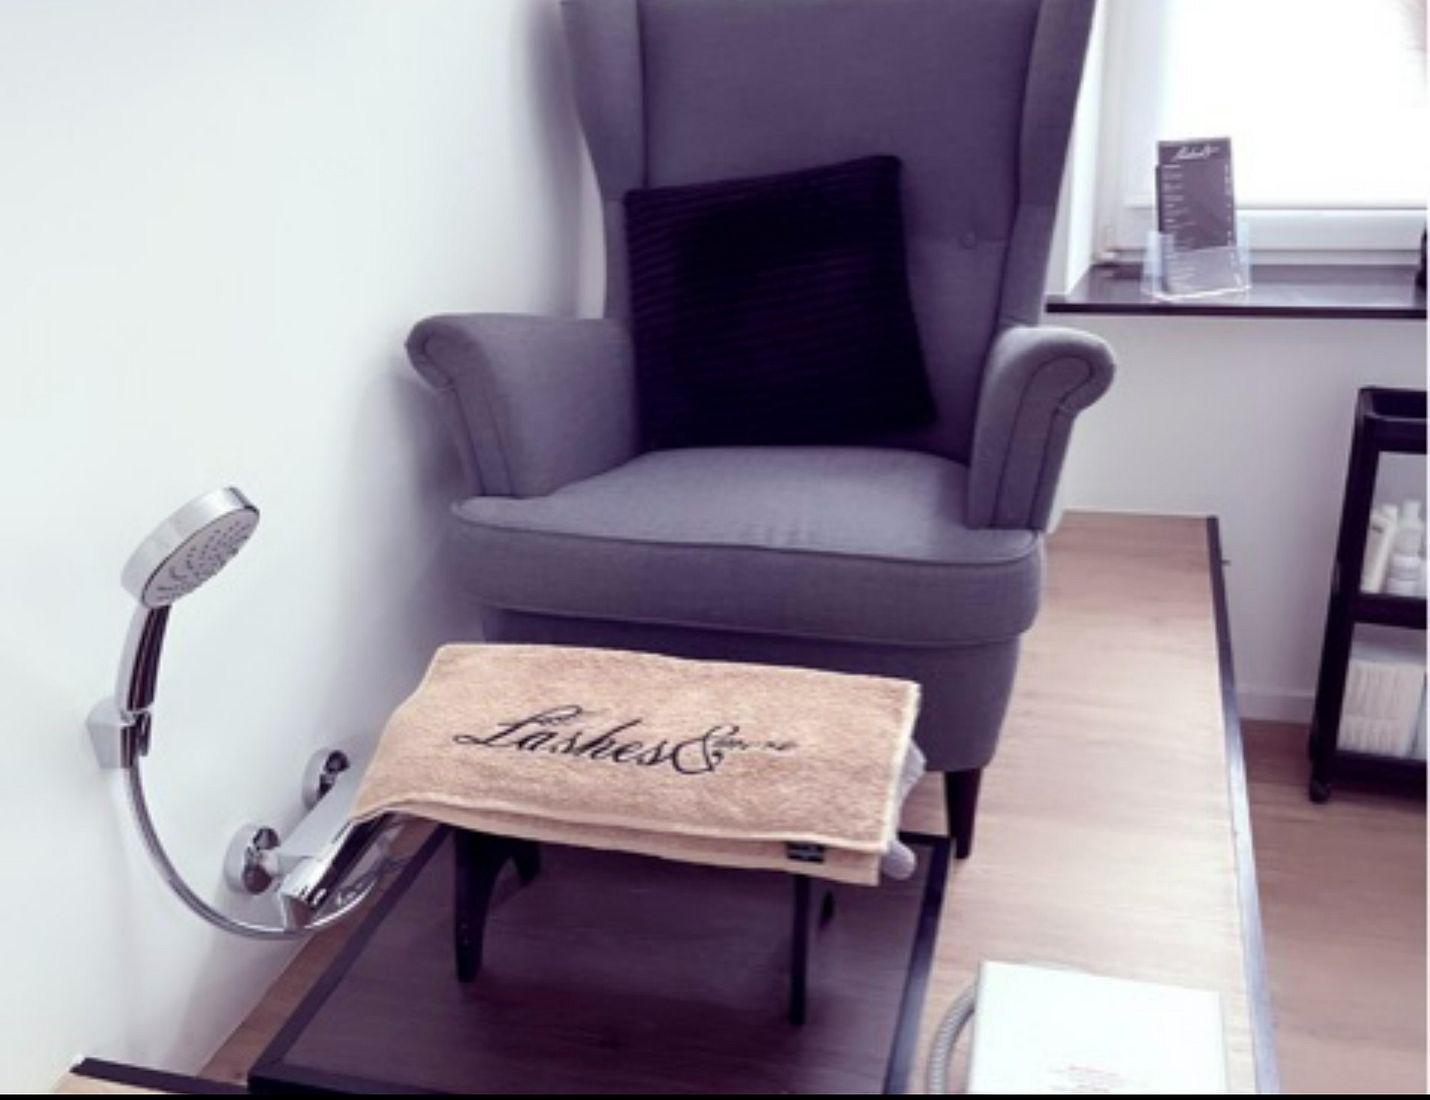
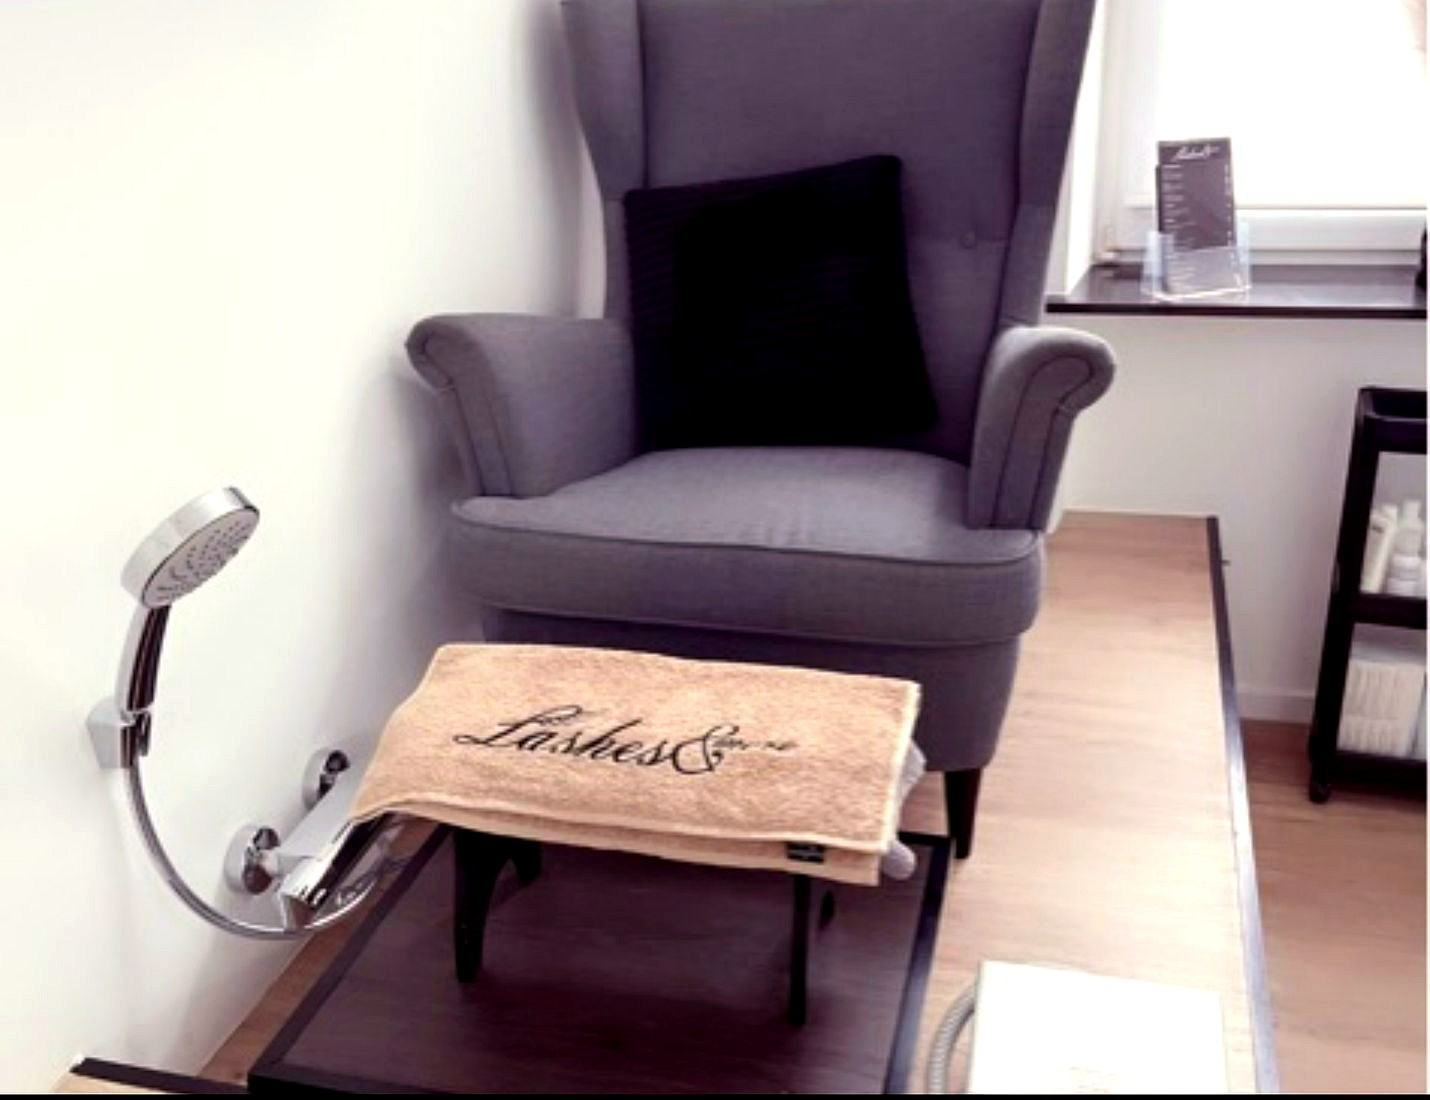
Fotos vereinheitlichen und Galerie/Über-uns-Layout überarbeiten
Weißabgleich und Farbgrading auf alle Fotos angewendet (u.a. Blaustich bei
Pediküre-/Pigmentierungsbild korrigiert) für einen einheitlichen, warmen Look.
Galerie zu einem kuratierten Bento-Grid mit Standort-Tags und Bildunterschriften
umgebaut statt eines rohen Masonry-Rasters. Über-uns-Bereich als editoriale
Bildcollage mit überlappendem Akzentbild statt zweier gleichförmiger Boxen.

diff --git a/src/lib/data.ts b/src/lib/data.ts
@@ -136,21 +136,37 @@ export const academyNote =
 export type GalleryImage = {
   src: string;
   alt: string;
+  location: "Studio 1" | "Studio 2";
+  featured?: boolean;
 };
 
 export const galleryImages: GalleryImage[] = [
-  { src: "/images/gallery/lounge-empfang.jpg", alt: "Wartebereich und Empfang im Studio 1, Anhalter Straße" },
-  { src: "/images/gallery/behandlung-gesicht.jpg", alt: "Behandlungsliege für Gesichtsbehandlungen, Studio 1" },
-  { src: "/images/gallery/studio-1-flur.jpg", alt: "Eleganter Flur mit Glastüren, Studio 1 Anhalter Straße 8" },
-  { src: "/images/gallery/pedikuere.jpg", alt: "Pediküre-Bereich, Anhalter Straße 8" },
-  { src: "/images/gallery/doppelbehandlung.jpg", alt: "Behandlungsraum für Doppelbehandlungen, Studio 1" },
-  { src: "/images/gallery/theke.jpg", alt: "Empfangstheke, Studio 1 Anhalter Straße 8" },
-  { src: "/images/gallery/liege-branded.jpg", alt: "Behandlungsliege mit Lashes&more Logo-Handtuch" },
-  { src: "/images/gallery/pigmentierung.jpg", alt: "Pigmentierungsbereich für Permanent Make-up, Studio 1" },
-  { src: "/images/gallery/flur.jpg", alt: "Eingangsbereich vor dem Studio, Anhalter Straße 8" },
-  { src: "/images/gallery/studio-2-empfang.jpg", alt: "Empfangstheke aus Massivholz, Studio 2 Gewerbeschulstraße 95" },
-  { src: "/images/gallery/studio-2-schaufenster.jpg", alt: "Schaufenster mit Leistungsübersicht, Studio 2 Gewerbeschulstraße 95" },
-  { src: "/images/gallery/studio-2-behandlung.jpg", alt: "Behandlungsbereich, Studio 2 Gewerbeschulstraße 95" },
+  {
+    src: "/images/gallery/lounge-empfang.jpg",
+    alt: "Wartebereich und Empfang im Studio 1, Anhalter Straße",
+    location: "Studio 1",
+    featured: true,
+  },
+  { src: "/images/gallery/behandlung-gesicht.jpg", alt: "Behandlungsliege für Gesichtsbehandlungen, Studio 1", location: "Studio 1" },
+  { src: "/images/gallery/studio-1-flur.jpg", alt: "Eleganter Flur mit Glastüren, Studio 1 Anhalter Straße 8", location: "Studio 1" },
+  { src: "/images/gallery/pedikuere.jpg", alt: "Pediküre-Bereich, Anhalter Straße 8", location: "Studio 1" },
+  { src: "/images/gallery/doppelbehandlung.jpg", alt: "Behandlungsraum für Doppelbehandlungen, Studio 1", location: "Studio 1" },
+  { src: "/images/gallery/theke.jpg", alt: "Empfangstheke, Studio 1 Anhalter Straße 8", location: "Studio 1" },
+  {
+    src: "/images/gallery/liege-branded.jpg",
+    alt: "Behandlungsliege mit Lashes&more Logo-Handtuch",
+    location: "Studio 1",
+  },
+  { src: "/images/gallery/pigmentierung.jpg", alt: "Pigmentierungsbereich für Permanent Make-up, Studio 1", location: "Studio 1" },
+  { src: "/images/gallery/flur.jpg", alt: "Eingangsbereich vor dem Studio, Anhalter Straße 8", location: "Studio 1" },
+  { src: "/images/gallery/studio-2-empfang.jpg", alt: "Empfangstheke aus Massivholz, Studio 2 Gewerbeschulstraße 95", location: "Studio 2" },
+  {
+    src: "/images/gallery/studio-2-schaufenster.jpg",
+    alt: "Schaufenster mit Leistungsübersicht, Studio 2 Gewerbeschulstraße 95",
+    location: "Studio 2",
+    featured: true,
+  },
+  { src: "/images/gallery/studio-2-behandlung.jpg", alt: "Behandlungsbereich, Studio 2 Gewerbeschulstraße 95", location: "Studio 2" },
 ];
 
 export const ratingSummary = {

diff --git a/src/components/Gallery.tsx b/src/components/Gallery.tsx
@@ -45,23 +45,30 @@ export default function Gallery() {
         </p>
       </div>
 
-      <div className="mt-14 columns-2 gap-4 sm:columns-3 lg:columns-4">
+      <div className="mt-14 grid grid-cols-2 gap-4 auto-rows-[160px] sm:grid-cols-3 sm:gap-5 sm:auto-rows-[200px] lg:grid-cols-4 lg:auto-rows-[220px]">
         {galleryImages.map((image, index) => (
           <button
             key={image.src}
             type="button"
             onClick={() => setActiveIndex(index)}
-            className="group relative mb-4 block w-full overflow-hidden rounded-xl focus:outline-none focus-visible:ring-2 focus-visible:ring-gold"
+            className={`group relative overflow-hidden rounded-2xl shadow-sm ring-1 ring-ink/5 transition-all duration-300 hover:shadow-xl hover:ring-gold/40 focus:outline-none focus-visible:ring-2 focus-visible:ring-gold ${
+              image.featured ? "col-span-2 row-span-2" : "col-span-1 row-span-1"
+            }`}
           >
             <Image
               src={image.src}
               alt={image.alt}
-              width={480}
-              height={600}
-              sizes="(min-width: 1024px) 22vw, (min-width: 640px) 30vw, 46vw"
-              className="w-full object-cover transition-transform duration-500 group-hover:scale-105"
+              fill
+              sizes="(min-width: 1024px) 24vw, (min-width: 640px) 32vw, 48vw"
+              className="object-cover transition-transform duration-500 ease-out group-hover:scale-110"
             />
-            <span className="absolute inset-0 bg-ink/0 transition-colors duration-300 group-hover:bg-ink/10" />
+            <span className="pointer-events-none absolute inset-0 bg-gradient-to-t from-ink/85 via-ink/0 to-ink/0 opacity-70 transition-opacity duration-300 group-hover:opacity-90" />
+            <span className="absolute left-3 top-3 rounded-full bg-cream/90 px-3 py-1 text-[10px] font-medium uppercase tracking-wider text-ink/70 backdrop-blur-sm">
+              {image.location}
+            </span>
+            <span className="absolute inset-x-0 bottom-0 translate-y-1 p-4 text-left text-xs leading-snug text-cream/90 transition-transform duration-300 group-hover:translate-y-0 sm:text-sm">
+              {image.alt}
+            </span>
           </button>
         ))}
       </div>

diff --git a/src/components/About.tsx b/src/components/About.tsx
@@ -1,28 +1,35 @@
 import Image from "next/image";
 import { academyNote } from "@/lib/data";
+import { IconSparkle } from "./icons";
 
 export default function About() {
   return (
     <section id="ueber-uns" className="mx-auto max-w-7xl px-5 py-20 sm:px-8 sm:py-28 lg:px-10">
-      <div className="grid items-center gap-12 lg:grid-cols-2 lg:gap-16">
-        <div className="grid grid-cols-2 gap-4">
-          <div className="relative mt-8 aspect-[3/4] overflow-hidden rounded-2xl shadow-lg">
+      <div className="grid items-center gap-16 lg:grid-cols-2 lg:gap-20">
+        <div className="relative mb-16 sm:mb-20 lg:mb-0">
+          <div className="relative aspect-[4/5] w-full overflow-hidden rounded-[2rem] shadow-xl shadow-ink/10">
             <Image
               src="/images/gallery/studio-1-flur.jpg"
               alt="Eingangsbereich von Studio 1, Anhalter Straße 8"
               fill
-              sizes="(min-width: 1024px) 25vw, 45vw"
+              sizes="(min-width: 1024px) 40vw, 90vw"
               className="object-cover"
             />
           </div>
-          <div className="relative aspect-[3/4] overflow-hidden rounded-2xl shadow-lg">
+
+          <div className="absolute -bottom-14 -right-4 h-36 w-32 rotate-3 overflow-hidden rounded-2xl border-4 border-cream shadow-xl shadow-ink/15 transition-transform duration-300 hover:rotate-0 sm:-bottom-16 sm:-right-8 sm:h-48 sm:w-40">
             <Image
               src="/images/gallery/liege-branded.jpg"
               alt="Behandlungsliege mit Lashes&more Logo"
               fill
-              sizes="(min-width: 1024px) 25vw, 45vw"
+              sizes="200px"
               className="object-cover"
             />
+          </div>
+
+          <div className="absolute -left-4 -top-5 hidden items-center gap-2 rounded-full bg-ink px-5 py-3 text-cream shadow-lg sm:flex">
+            <IconSparkle className="h-4 w-4 text-gold" />
+            <span className="text-sm font-medium whitespace-nowrap">Lashes&amp;more Academy</span>
           </div>
         </div>
 

diff --git a/src/components/Hero.tsx b/src/components/Hero.tsx
@@ -63,7 +63,7 @@ export default function Hero() {
         </div>
 
         <div className="relative">
-          <div className="relative aspect-[4/5] w-full overflow-hidden rounded-[2rem] shadow-2xl shadow-ink/10 sm:aspect-[5/6]">
+          <div className="relative aspect-[4/5] w-full overflow-hidden rounded-[2rem] shadow-2xl shadow-ink/10 ring-1 ring-ink/5 sm:aspect-[5/6]">
             <Image
               src="/images/hero.jpg"
               alt="Empfangsbereich von Lashes&more in Wuppertal"
@@ -72,6 +72,8 @@ export default function Hero() {
               sizes="(min-width: 1024px) 40vw, 90vw"
               className="object-cover"
             />
+            <span className="pointer-events-none absolute inset-0 bg-gradient-to-t from-ink/30 via-transparent to-transparent" />
+            <span className="pointer-events-none absolute inset-0 rounded-[2rem] ring-1 ring-inset ring-cream/10" />
           </div>
           <div className="absolute -bottom-6 -left-6 hidden rounded-2xl bg-ink px-6 py-5 text-cream shadow-xl sm:block">
             <p className="font-serif text-3xl font-semibold text-gold">{ratingSummary.average}</p>
